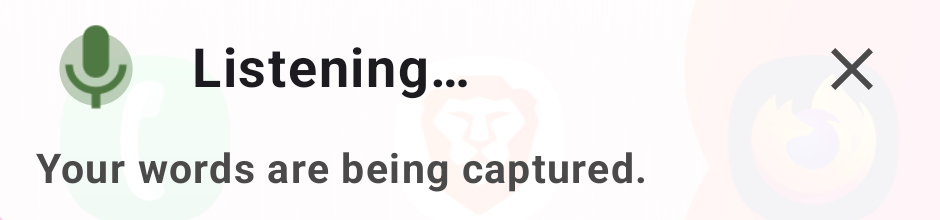
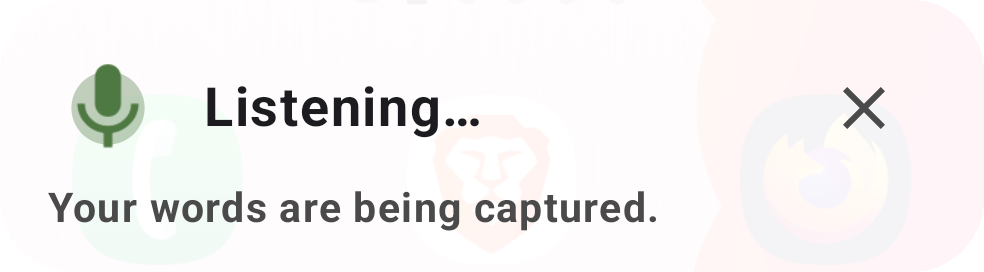
docs(#1944): address QA report review (evidence for #1941 and smoke weather, S21 build state, #1930 crop, wording)

diff --git a/docs/evidence/build7-qa/REPORT.md b/docs/evidence/build7-qa/REPORT.md
@@ -11,13 +11,21 @@ Tracking: #1944 (milestone "Build 7 — setup polish & tester follow-ups").
 | Source | `origin/main` `8173f2dd6e9300f5c7179dd683bbc1f80897290c` |
[1 lines of base64/hex data omitted]
 | S23U | `RFCW11265XH`, SM-S918B, Android 16, Gemma-4 E-4B GPU. Installed 21:28:46. Details: [s23u-results.md](s23u-results.md) |
-| S21 | `R5CR605B71K`, SM-G991B, Android 15, Gemma-4 E-2B GPU. Installed 21:28:57. Details: [s21-results.md](s21-results.md) |
+| S21 | `R5CR605B71K`, SM-G991B, Android 15, Gemma-4 E-2B GPU. Installed 21:28:57; the #1968-fix agent reinstalled it at 22:12:34 (see below). Details: [s21-results.md](s21-results.md) |
 | Honor | Not touched |
 | When | 2026-11-16, 21:24–22:29 AEST. Each phone was silenced before anything audible: ringer silent, media/notification 0, DND on, alarm `Muted: true`. Speech was judged from logs. All recorded values were restored and re-read (see the results files). |
 
 Locks: `/tmp/jandal-s23u.lock` and `/tmp/jandal-s21.lock` were held with owner files for every device session and released by their owners.
 
-At 22:12:34, between QA sessions, another agent working on the #1968 fix (`fix-1968-lexicon`) reinstalled the S21 debug app with its own build. Only two S21 rows ran after that (#1928, #1931); both are marked below.
+At 22:12:34, between QA sessions, another agent working on the #1968 fix (`fix-1968-lexicon`) reinstalled the S21 debug app with its own build. Only two S21 rows ran after that (#1928, #1931); both are marked S21* below.
+
+That build is `6910c1a7`, the tip of `origin/fix/lexicon-regex-android-1968`, branched directly from `8173f2dd` (merge-base `8173f2dd`). `git diff --stat 8173f2dd 6910c1a7` touches only:
+- `PronunciationLexicon.kt` (+5/−2)
+- the new `PronunciationLexiconDeviceTest.kt` (+29)
+- `core/voice/build.gradle.kts` (+2)
+- `gradle/libs.versions.toml` (+2)
+
+No widget or setup code changed, so the two S21* rows hold for `8173f2dd`.
 
 ## Results
 
@@ -28,23 +36,23 @@ PASS / FAIL / NOT RUN / OWNER CHECK. "S21*" means the S21 had the #1968-fix agen
 | Smoke | App start to ready UI | PASS (cold, 1141 ms) | PASS (warm only, 631–1151 ms; the assistant service restarts the process at once) | results files |
 | Smoke | First chat reply | PASS | PASS | [s21-1920-rebuilds.txt](s21-1920-rebuilds.txt) |
 | Smoke | Timer 5 s (silenced) | PASS (alert text observation) | PASS | results files |
-| Smoke | Weather quick intent | PASS | PASS | [s23u-smoke-weather-auckland.log](s23u-smoke-weather-auckland.log) |
+| Smoke | Weather quick intent | PASS. The S23U run hit a real Open-Meteo stall: the 5 s budget expired with no exception, unlike the marker path, and the marker had been removed before the run | PASS | [s23u-smoke-weather-auckland.log](s23u-smoke-weather-auckland.log) |
 | Smoke | List add / remove | PASS | PASS | results files |
 | **#1968 (new)** | **Any Cori/Sherpa speech** | **FAIL: crash** | **FAIL: crash** | [s21-tts-crash-patternsyntax.log](s21-tts-crash-patternsyntax.log), [s21-1942-read-aloud-crash.log](s21-1942-read-aloud-crash.log) |
-| #1941 | Typed "ad milk to my shopping lest" → `add_to_list`, no LLM | PASS | – | s23u-results.md |
-| #1941 | Chat `run_intent(bulk_add_to_list)` | PASS (`success=true`) | – | s23u-results.md |
+| #1941 | Typed "ad milk to my shopping lest" → `add_to_list`, no LLM | PASS: Actions card routed `add_to_list`, "• milk" (other cards read `llm_fallthrough`) | – | [s23u-1941-actions-ui-dump.txt](s23u-1941-actions-ui-dump.txt) |
+| #1941 | Chat `run_intent(bulk_add_to_list)` | PASS (agent-observed, no artefact): QA agent 1 saw `success=true` in logcat. The log was not kept, and the chat was deleted in cleanup | – | s23u-results.md |
 | #1940 | Weather mishearings | OWNER CHECK | OWNER CHECK | `TranscriptNormaliser` runs only inside the STT controllers; the harness route skips it, so typed tests prove nothing. Unit tests: `TranscriptNormaliserTest`, `WeatherSttRoutingTest`. |
 | #1927 | Home stops a chat voice reply | NOT RUN with Cori (#1968) | PASS (Android TTS) | [s21-1927-home.log](s21-1927-home.log) |
 | #1927 | Home stops 'Speak message' read-aloud | NOT RUN with Cori (#1968) | PASS (Android TTS) | [s21-1927-readaloud-home.log](s21-1927-readaloud-home.log) |
 | #1927 | Screen off keeps speaking | n/a (S21 only) | PASS (Android TTS) | [s21-1927-screenoff.log](s21-1927-screenoff.log) |
 | #1928 | Widget mic contrast + content description | NOT RUN (launcher placement failed) | PASS* 5.07:1, "Voice input" | [s21-1928-widget-mic-button.png](s21-1928-widget-mic-button.png) |
-| #1932 | Hey Jandal subtitle copy | PASS | PASS | [s21-1932-voice-hey-jandal-subtitle.png](s21-1932-voice-hey-jandal-subtitle.png), [s23u-dark-font1.15-voice-top.png](s23u-dark-font1.15-voice-top.png) |
+| #1932 | Hey Jandal subtitle copy | PASS on S21 (the new text, Jandal is default assistant). S23U shows the not-default-assistant text ("Set Jandal as default assistant first…"), which only proves the old "Tap Home-press" text is gone | PASS | [s21-1932-voice-hey-jandal-subtitle.png](s21-1932-voice-hey-jandal-subtitle.png) (`8173f2dd`, before the S21 reinstall), [s23u-dark-font1.15-voice-top.png](s23u-dark-font1.15-voice-top.png) |
 | #1932 | List chooser casing `shopping list` | PASS | – | [s23u-1932-list-chooser-casing.png](s23u-1932-list-chooser-casing.png) |
 | #1932 | Widget picker labels | PASS for this build ("Jandal AI (debug)"); the other rows are older installed packages | – | s23u-results.md |
 | #1952 | No chat composer frame on the widget → Actions handoff | PASS (screenrecord, 10 fps, dark) | – | [s23u-1952-frames.txt](s23u-1952-frames.txt), [1](s23u-1952-1-chat-before-handoff.png) [2](s23u-1952-2-opaque-cover.png) [3](s23u-1952-3-actions-first-frame.png) [4](s23u-1952-4-actions-loaded.png) |
 | #1909 | Permission reply wording, prompt path (deny) | – | PASS | [s21-1909-prompt-path-reply-and-system-prompt.png](s21-1909-prompt-path-reply-and-system-prompt.png) |
 | #1909 | App info path (permanently denied) | – | PASS (App info opens; the reply's second sentence covers it) | [s21-1909-app-info-opened.png](s21-1909-app-info-opened.png), [s21-1909-app-info-path-reply.png](s21-1909-app-info-path-reply.png) |
-| #1912 | Acceptance modules compile | PASS (host) | | [1912-compile-tasks.txt](1912-compile-tasks.txt) |
+| #1912 | Acceptance modules compile | PASS (host) | – | [1912-compile-tasks.txt](1912-compile-tasks.txt) |
 | #1943 | 'Set up Jandal again' is the first Settings row | PASS | PASS | [s23u-1943-settings-top.png](s23u-1943-settings-top.png) |
 | #1943 | Mobile-data switch only in Model Management › Downloads; same value as setup step 3 | PASS | – | [s23u-1943-model-management-downloads.png](s23u-1943-model-management-downloads.png) |
 | #1942 | Card: rows, time column, Show more (test calendar only) | – | PASS | [s21-1942-card-collapsed.png](s21-1942-card-collapsed.png), [s21-1942-card-expanded.png](s21-1942-card-expanded.png) |
@@ -55,7 +63,7 @@ PASS / FAIL / NOT RUN / OWNER CHECK. "S21*" means the S21 had the #1968-fix agen
 | #1929 | Each step opens at the top | PASS | – | `s23u-*-step*-top.png` |
 | #1931 | Hey Jandal card names its download | n/a (models already on the phone) | PASS* "Adds a 117 MB download" | [s21-1931-setup-step4-hey-jandal-size.png](s21-1931-setup-step4-hey-jandal-size.png) |
 | #1937 | Online switch inside the selected engine card | PASS at 1.15; NOT RUN at 2.0 | – | [s23u-light-font1.15-voice-top.png](s23u-light-font1.15-voice-top.png), [s23u-dark-font1.15-step2-top.png](s23u-dark-font1.15-step2-top.png) |
-| #1930 | Hey Jandal overlay (what can be shown silently) | – | PASS partial: the overlay "Listening…" state from the widget entry, which the wake path reuses | [s21-1930-overlay-listening-widget-entry.png](s21-1930-overlay-listening-widget-entry.png); wake-path items are on the owner's checklist |
+| #1930 | Hey Jandal overlay (what can be shown silently) | – | PARTIAL: only the overlay's "Listening…" state from the widget entry, which the wake path reuses. The wake path itself is an owner check. The card is translucent, so three home-screen app icons (phone, Brave, Firefox) show faintly through it; no text, wallpaper photo or personal data | [s21-1930-overlay-listening-widget-entry.png](s21-1930-overlay-listening-widget-entry.png); wake-path items are on the owner's checklist |
 | #1922 | MET Norway fallback, debug marker, uncached city | PASS: Oamaru answered by MET Norway 2.0 s after the forced failure; card credits MET; marker removed | – | [s23u-1922-met-fallback.log](s23u-1922-met-fallback.log), [s23u-1922-met-fallback-card.png](s23u-1922-met-fallback-card.png) |
 
 Font: the phones' default font scale is 1.15, so "default" in the setup images means 1.15.
@@ -77,11 +85,23 @@ Observations (not filed):
 - Harness: a fresh token is written with `run-as` and sent with `chat_input`, `quick_action_input`, or `quick_action_input_encoded`; `quick_action_is_voice` is false wherever speech would trigger #1968. #1927 used Android TTS for the run, and the voice engine was restored to Piper/Cori afterwards.
 - #1942 used a LOCAL test calendar `JandalTest` with 5 made-up events, behind the debug test-calendar filter set before any read. The UI dump showed only `Test …` rows before any screenshot. Calendar, events and filter were removed, and permissions restored.
 - #1909 used deny paths only, with a far-future date (2099). Permission flags were restored to `granted=false, USER_SET`.
-- Screenshots are cropped to app content. Neither phone's home screen, conversation list, contacts nor real events were captured.
+- Screenshots are cropped to app content. No conversation list, contacts or real events were captured. Home-screen content appears in two places:
+  - `s21-1928-widget-mic-button.png` is cropped inside the widget's mic button;
+  - the translucent #1930 overlay card lets three app icons show faintly through it, with no text or wallpaper photo.
 
 ## Cleanup
 
-All QA test data was removed on both phones: lists and items, test calendar, 8 S23U and 16 S21 chats, 13 S23U and 22 S21 Actions cards, harness tokens, marker files and dump files. A DB read-back on each phone shows no conversation or Actions row created after 21:20. On the S21, two chats and two cards made by the #1968-fix agent's runs (22:13, 22:18) were removed in the same sweep. Device settings and permissions were restored to their recorded values (tables in the results files).
+All QA test data was removed on both phones:
+- lists and items, the test calendar, 8 S23U and 16 S21 chats, 13 S23U and 22 S21 Actions cards;
+- harness tokens, marker files and dump files.
+
+A DB read-back on each phone shows no conversation or Actions row created after 21:20. On the S21, two chats and two cards made by the #1968-fix agent's runs (22:13, 22:18) were removed in the same sweep. Device settings and permissions were restored to their recorded values (tables in the results files).
+
+**Installed build at the end:**
+- the S23U has the QA build `8173f2dd` (installed 21:28:46);
+- the S21 still has the #1968-fix agent's debug build `6910c1a7` (installed 22:12:34), not `8173f2dd`.
+
+A clean `origin/main` debug build goes on both phones after the post-#1969 re-run.
 
 ## Owner internal-testing smoke checklist
 

diff --git a/docs/evidence/build7-qa/s21-results.md b/docs/evidence/build7-qa/s21-results.md
@@ -2,14 +2,17 @@
 
 ## Header
 
-- Device: S21, `R5CR605B71K`, SM-G991B, Android 15. Debug build `ai.jandal.assistant.debug` from `origin/main` `8173f2dd`, APK sha256 `cfb3ec80…f6b7`, `lastUpdateTime=2026-11-16 21:28:57`.
+- Device: S21, `R5CR605B71K`, SM-G991B, Android 15. Debug build `ai.jandal.assistant.debug` from `origin/main` `8173f2dd`, APK sha256 `cfb3ec80…f6b7`, `lastUpdateTime=2026-11-16 21:28:57`. The #1968-fix agent reinstalled it at 22:12:34; see the build note.
 - Model: Gemma-4 E-2B on GPU (app default on this phone).
 - Sessions under the lock protocol:
   - first QA agent (`b7qa-s21-agent`), 21:28–21:44 AEST: smoke checks, then out of budget;
   - parent agent (`b7qa-parent`), 21:44–22:10:46 AEST (released): everything else, cleanup and restore.
   - parent agent again, 22:25–22:28:57 AEST (released): #1928 widget crop, #1931 setup step 4, and cleanup. Nothing audible; no TTS.
 - Silenced for the first two sessions (recorded before, restored after; see Cleanup).
-- **Build note:** at 22:12:34, between my sessions, another agent working on the #1968 fix (lock owner `fix-1968-lexicon`) reinstalled the S21 debug app with its own build. So the #1928 and #1931 rows ran on that build, not `8173f2dd`. Its change is the speech lexicon; the widget and setup copy are the same code [INFERENCE: from the agent's run script and #1968 scope, not from a diff]. Every other S21 row ran on `8173f2dd`.
+- **Build note:** at 22:12:34, between my sessions, another agent working on the #1968 fix (lock owner `fix-1968-lexicon`) reinstalled the S21 debug app with its own build, `6910c1a7`, the tip of `origin/fix/lexicon-regex-android-1968`.
+  - So the #1928 and #1931 rows ran on that build.
+  - Its merge-base with `8173f2dd` is `8173f2dd`, and `git diff --stat 8173f2dd 6910c1a7` touches only `PronunciationLexicon.kt`, the new `PronunciationLexiconDeviceTest.kt`, `core/voice/build.gradle.kts` and `gradle/libs.versions.toml`. No widget or setup code changed.
+  - Every other S21 row ran on `8173f2dd`, including `s21-1932-voice-hey-jandal-subtitle.png` (captured about 21:56, before the reinstall), which shows "Adds a 117 MB download" on `8173f2dd` itself.
 
 ## Results
 
@@ -22,7 +25,7 @@
 | Smoke | List add and remove | PASS | – | "add qa test item to my shopping list", then removed. The list had to be created first (none existed). |
 | Smoke | Chat voice reply with Cori (Sherpa) | **FAIL** → #1968 | `s21-tts-crash-patternsyntax.log` | The app crashes at the first spoken chunk: `PatternSyntaxException (?U:\s+)` in `PronunciationLexicon.<clinit>`. 3 crashes in this session, plus 1 from Actions Read aloud. |
 | Known | "what lists do I have" via the Actions fallthrough | FAIL, already tracked | – | `Input token ids are too long … 3382 >= 3072` on E-2B. This is #1961 (Build 8), not new. |
-| #1927 | Home stops a chat voice reply | PASS (Android TTS) | `s21-1927-home.log` | Cori crashes (#1968), so voice output was switched to Android TTS for this check and restored afterwards. Home 2 s into speech: `AudioTrack stop` + `abandonAudioFocus` from the Jandal TTS controller within 0.4 s, and no later `speaking_started` in 25 s (the reply had 112 chunks). |
+| #1927 | Home stops a chat voice reply | PASS (Android TTS) | `s21-1927-home.log` | Cori crashes (#1968), so voice output was switched to Android TTS for this check and restored afterwards. Home 2 s into speech: `AudioTrack stop` + `abandonAudioFocus` from the Jandal TTS controller within 0.4 s, and no later `speaking_started` in 25 s. The reply was a multi-sentence story; the same prompt in the screen-off run produced 3 more `speaking_started` lines in the next 20 s, so more utterances were due. |
 | #1927 | Screen off keeps speaking | PASS (Android TTS) | `s21-1927-screenoff.log` | `KEYCODE_SLEEP` → `Going to sleep due to sleep_button`. Three more `speaking_started` followed with the screen off (21:59:50, 22:00:01, 22:00:09), until the wake key at 22:00:10. |
 | #1927 | Home stops 'Speak message' read-aloud | PASS (Android TTS) | `s21-1927-readaloud-home.log` | Read-aloud on the story reply, Home at 22:01:02.65, stop at 22:01:02.96, no further speech in 20 s. |
 | #1927 | Same, with Cori | NOT RUN (blocked by #1968) | – | Re-check after the #1968 fix. |
@@ -33,7 +36,7 @@
 | #1928 | Widget mic contrast + content description | PASS (see build note) | `s21-1928-widget-mic-button.png` | The debug quick-actions widget (id 36, already on the S21 home screen from #1945's evidence) was cropped to the mic button only. Glyph `#FFFFFF` on `#4F7942`: **5.07:1** (minimum 3:1), light mode. The mic node has content-desc "Voice input". This replaces the S23U placement, which failed in the launcher. |
 | #1931 | Setup guide Hey Jandal card names the download | PASS (see build note) | `s21-1931-setup-step4-hey-jandal-size.png` | Step 4: "Adds a 117 MB download. Uses a little battery." Settings › Voice says the same. Hey Jandal was not turned on, so whether step 3 lists the download when it's on was not checked. |
 | #1920 | One rebuild per command | PASS | `s21-1920-rebuilds.txt` | 3 measured chat-path commands after a warm-up: `CONV_REBUILD` = 1, 1, 1 (`reason=updateSystemPrompt`). t0 → `generate()` was 3843 / 3893 / 3806 ms. Prefill was 2511 tokens. Typed fallthrough (`quick_action_is_voice=false`), because the voice route crashes at speech (#1968); the rebuild path (`submitInitialQueryIfNeeded`, independent command) is the same. |
-| #1930 | Overlay states that can be shown without sound | PASS (partial) | `s21-1930-overlay-listening-widget-entry.png` | The widget-entry overlay (`VoiceCommandActivity`, which the wake path now reuses): mic icon, "Listening…", "Your words are being captured.", X. Back dismissed it, and nothing was routed. The wake path itself (Listening → partials → Processing, X cancel, turnScreenOn) needs the owner's spoken check. |
+| #1930 | Overlay states that can be shown without sound | PARTIAL | `s21-1930-overlay-listening-widget-entry.png` | The widget-entry overlay (`VoiceCommandActivity`, which the wake path now reuses): mic icon, "Listening…", "Your words are being captured.", X. Back dismissed it, and nothing was routed. The image is cropped to the card with the outside corners masked; the card is translucent, so three home-screen app icons show faintly through it (no text, no wallpaper photo). The wake path itself (Listening → partials → Processing, X cancel, turnScreenOn) needs the owner's spoken check. |
 | #1932 | Voice settings Hey Jandal subtitle | PASS | `s21-1932-voice-hey-jandal-subtitle.png` | "Say "Hey Jandal" to start talking, hands-free. Adds a 117 MB download." The old "Tap Home-press…" text is gone. This also shows the #1931 size. |
 | #1943 | 'Set up Jandal again' is the first Settings row | PASS | – | Seen in the UI dump (first row, "How Jandal works and download options"). |
 
@@ -61,3 +64,4 @@
 | Chats created tonight (14) | created | deleted in the UI |
 | Test list `shopping` (created by the first agent; none existed before) | created | deleted |
 | 2 chats + 2 Actions cards "tell me a short story about a dog" (22:13, 22:18) | created by the `fix-1968-lexicon` agent's runs, not by QA | deleted by me at 22:27 while cleaning up, before I knew whose they were; its harness token file was also removed (its run had finished and released the lock) |
+| Installed debug build | `8173f2dd` (21:28:57) | **not restored:** the S21 still has the #1968-fix agent's build `6910c1a7` (`lastUpdateTime=2026-11-16 22:12:34`). A clean `origin/main` debug build will be installed after the post-#1969 re-run. |

diff --git a/docs/evidence/build7-qa/s23u-results.md b/docs/evidence/build7-qa/s23u-results.md
@@ -18,18 +18,18 @@
 |---|---|---|---|---|
 | Smoke | Cold start reaches the ready UI | PASS | – | `am force-stop` + `am start -W`: TotalTime 1141 ms; UI dump of the ready screen. |
 | Smoke | First chat reply | PASS | – | Agent 1: the harness chat "In one sentence, why is the sky blue?" generated a reply. |
-| Smoke | Weather quick intent | PASS | `s23u-smoke-weather-auckland.log` | Typed "what's the weather in Auckland" → `get_weather` card, no inference-engine lines. Open-Meteo really was failing; MET Norway answered. |
+| Smoke | Weather quick intent | PASS | `s23u-smoke-weather-auckland.log` | Typed "what's the weather in Auckland" → `get_weather` card, no inference-engine lines. MET Norway answered because Open-Meteo really was failing, not because of the debug marker. The marker was removed by the #1922 script after 22:10:54.5 and before this run (first command 22:11:11.7). In this run the 5 s `OPEN_METEO_BUDGET_MS` expired (22:11:19.5 → 24.77) with no `Weather API failed` or `debug: forced Open-Meteo failure` line; the marker path logs those at once. |
 | Smoke | Timer 5 s | PASS (with observation) | – | Agent 1: needed a temporary `POST_NOTIFICATIONS` grant (restored to off). It fired. The alert's text read "I didn't catch anything — please try again" [INFERENCE: the alert-time listening found no command, with the phone silenced; not investigated]. |
 | Smoke | Voice reply (Cori) | **FAIL** → #1968 | – | Agent 1's first voice reply crashed the app: `PatternSyntaxException` in `PronunciationLexicon.<clinit>`. The same crash is on the S21, see `s21-tts-crash-patternsyntax.log`. |
-| #1941 | Typed "ad milk to my shopping lest" → add_to_list | PASS | – | Agent 1: `add_to_list` item=milk, no LLM. |
-| #1941 | run_intent bulk_add_to_list via chat | PASS | – | Agent 1: "Use run_intent with bulk_add_to_list…" → Gemma called `run_intent(bulk_add_to_list)`, `success=true`. The 'qa test' card listed eggs, bread and butter. |
+| #1941 | Typed "ad milk to my shopping lest" → add_to_list | PASS | `s23u-1941-actions-ui-dump.txt` | Agent 1's run. The Actions UI dump (22:10, before cleanup) shows the card routed `add_to_list` with "• milk"; the cards that went to the model read `llm_fallthrough`. |
+| #1941 | run_intent bulk_add_to_list via chat | PASS (agent-observed, no artefact) | – | Agent 1: "Use run_intent with bulk_add_to_list…" → Gemma called `run_intent(bulk_add_to_list)`, `success=true`, and the 'qa test' card listed eggs, bread and butter. The logcat was not kept, and the chat was deleted in cleanup. |
 | #1941 | Natural multi-item phrasing (observation) | Observation | – | Chat route, agent 1: "Please add eggs, bread and butter to my qa test list" was quick-routed to `get_list_items` (list "and butter to my qa test list"). Another phrasing created a stray list "the three ingredients eggs, flour and sugar to the qa test" (its DELETED tombstone is in the DB). On the Actions route (parent, 22:22), the same sentence added one item "eggs, bread and butter" to the right list. Outside #1941's Done-when; not filed. |
 | #1922 | Forced Open-Meteo failure → MET Norway, uncached city | PASS | `s23u-1922-met-fallback.log`, `s23u-1922-met-fallback-card.png` | Marker on, typed "what's the weather in Oamaru": forced failure 22:10:45.774 → MET answered 22:10:47.808. The card shows Oamaru, NZ, 9 °C, Overcast, "Weather data: MET Norway (CC BY 4.0)". Marker removed and confirmed gone. |
 | #1927 | Home stop with Cori | NOT RUN (blocked by #1968) | – | Verified on the S21 with Android TTS instead. |
 | #1928 | Widget mic contrast on the S23U home screen | NOT RUN | – | Agent 2's 3 launcher drag attempts bound nothing. The home screen blocks uiautomator (`could not get idle state`), so the parent did not retry blind. Measured on the S21 instead: 5.07:1. |
-| #1932 | Voice settings Hey Jandal subtitle | PASS | `s23u-dark-font1.15-voice-top.png` | Reads "Set Jandal as default assistant first for reliable background mic access." (the S23U is not the default assistant); no "Tap Home-press" text. |
+| #1932 | Voice settings Hey Jandal subtitle | PASS (old text gone only) | `s23u-dark-font1.15-voice-top.png` | Reads "Set Jandal as default assistant first for reliable background mic access.", the text shown when Jandal is not the default assistant. That proves only that the old "Tap Home-press" text is gone; the new default-assistant text is verified on the S21. |
 | #1932 | List chooser casing | PASS | `s23u-1932-list-chooser-casing.png` | `ListsWidgetConfigureActivity` ("Choose a list") shows `shopping list`, like the card (`s23u-1952-4-actions-loaded.png`). Closed with Back; nothing selected. |
-| #1932 | Widget picker labels | PASS for this build | – | Agent 2 saw one "Jandal AI (debug)" row plus four "Jandal AI" rows. The four come from other installed packages (`ai.jandal.assistant` Play 0.1.7, `com.kernel.ai`, `com.kernel.ai.debug`, `com.kernel.ai.debug.llamaprobe`), built before #1946. The rows were not mapped one by one. |
+| #1932 | Widget picker labels | PASS for this build | – | Agent 2 saw one "Jandal AI (debug)" row plus four "Jandal AI" rows. Five packages expose widget receivers: this debug build, `ai.jandal.assistant`, `com.kernel.ai`, `com.kernel.ai.debug` and `com.kernel.ai.debug.llamaprobe`. The four "Jandal AI" rows are those other packages, which don't have #1946's debug label [INFERENCE: the rows were not mapped one by one]. |
 | #1952 | No chat composer frame on the chat → Actions handoff | PASS | `s23u-1952-frames.txt`, `s23u-1952-1…4-*.png` | Parent re-run (agent 2's run sent only "Add", so it never reached Actions). f020 chat → f021 opaque cover → f022–23 Actions empty state → f024 Actions loaded; no composer frame after f020. Dark mode only. |
 | #1943 | 'Set up Jandal again' is the first Settings row | PASS | `s23u-1943-settings-top.png` | |
 | #1943 | 'Download on mobile data' only in Model Management › Downloads | PASS | `s23u-1943-settings-top.png`, `s23u-1943-model-management-downloads.png` | Not in the top-level list (scrolled, text absent). In Model Management: "Models download on Wi-Fi only", switch off. |
